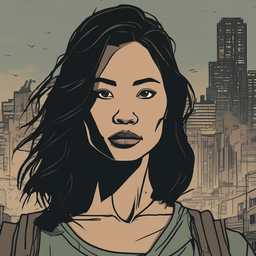
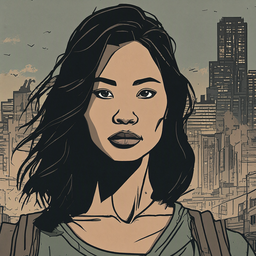
미국 애니메이션 화풍: 앳된 10대 여성 2장 추가, d_f28 뺨 고치기 (12-139)
- d_f31(17세)·d_f32(16세): d_f21·d_f29가 20대처럼 나와 더 앳된 묘사로 새로 추가 (후보 중 고른 시드)
- 얼굴 touchup: 마지막에 이 지시 하나만으로 Qwen 편집을 한 번 더 한다. 다른 지시와 섞으면 잘 따르지 않아 특정 부분 고치기는 따로 한다
- d_f28: 화면 왼쪽 뺨과 턱 사이를 덮은 검은 덩어리를 치웠다

diff --git a/scripts/portraits.ts b/scripts/portraits.ts
@@ -55,6 +55,8 @@ type Character = {
   grade?: Grade;
   /** 화풍의 colorize 지시로 색을 입힌다 (흑백·회색조로 그려진 그림) */
   colorize?: boolean;
+  /** 마지막에 이 지시 하나만으로 Qwen 편집을 한 번 더 한다 (특정 부분만 고칠 때. 다른 지시와 섞으면 잘 안 먹힌다) */
+  touchup?: string;
   /** 자르는 영역 배율 (기본 1). 고개를 돌려 얼굴 너비가 좁게 재지는 얼굴은 1보다 크게 (얼굴이 작아진다) */
   crop_scale?: number;
   /** 여백이 모자라지 않아도 정리(cleanup)를 한다: 원본에 액자·테두리가 그려진 그림. 글이면 정리 지시에 덧붙인다 */
@@ -416,7 +418,13 @@ async function finishWorkflow(rawName: string, size: { width: number; height: nu
       col_rgb: { class_type: "SplitImageWithAlpha", inputs: { image: ["col_decode", 0] } },
     });
     image = ["col_rgb", 0];
-  } else if (ch.colorize && !colorizeHere) console.error(`  ! ${prefix}: colorize는 화풍의 colorize 지시와 cleanup 모델이 있어야 합니다`);
+  }
+  if (ch.touchup && cleanup) {
+    // 특정 부분 고치기: 이 지시만으로 한 번 더 편집한다
+    Object.assign(wf, qwenEdit("tu", image, ch.touchup.trim()));
+    image = ["tu_rgb", 0];
+  }
+  if (ch.colorize && !colorizeHere) console.error(`  ! ${prefix}: colorize는 화풍의 colorize 지시와 cleanup 모델이 있어야 합니다`);
   const grade = ch.grade ?? style.grade;
   const gradeRef = grade ? join(artDir, grade.ref) : null;
   if (grade && gradeRef && existsSync(gradeRef)) {
@@ -597,4 +605,30 @@ function sortKeys(o: Record<string, string>) {
 function fail(msg: string): never {
   console.error(msg);
   process.exit(1);
+}
+
+/** Qwen Image 편집 노드들 (이름 앞에 prefix). 결과는 <prefix>_rgb */
+function qwenEdit(prefix: string, image: [string, number], prompt: string): Record<string, Node> {
+  const c = cleanup!;
+  const n = (k: string) => `${prefix}_${k}`;
+  return {
+    [n("unet")]: { class_type: "UNETLoader", inputs: { unet_name: c.unet, weight_dtype: "default" } },
+    [n("cache")]: { class_type: "QwenImage21Cache", inputs: { model: [n("unet"), 0], device: "auto", dtype: "default" } },
+    [n("clip")]: { class_type: "CLIPLoader", inputs: { clip_name: c.clip, type: "qwen_image", device: "default" } },
+    [n("vae")]: { class_type: "VAELoader", inputs: { vae_name: c.vae } },
+    [n("enc")]: {
+      class_type: "TextEncodeQwenImage21",
+      inputs: { clip: [n("clip"), 0], vae: [n("vae"), 0], prompt, negative_prompt: "", resolution: 1024, "images.image_1": image },
+    },
+    [n("guider")]: { class_type: "CFGGuider", inputs: { model: [n("cache"), 0], positive: [n("enc"), 0], negative: [n("enc"), 1], cfg: 1 } },
+    [n("noise")]: { class_type: "RandomNoise", inputs: { noise_seed: c.seed } },
+    [n("sampler")]: { class_type: "KSamplerSelect", inputs: { sampler_name: "euler" } },
+    [n("sigmas")]: { class_type: "ManualSigmas", inputs: { sigmas: "1.0, 0.978453, 0.95418, 0.926626, 0.89508, 0.845148, 0.704534, 0.414568, 0" } },
+    [n("sample")]: {
+      class_type: "SamplerCustomAdvanced",
+      inputs: { noise: [n("noise"), 0], guider: [n("guider"), 0], sampler: [n("sampler"), 0], sigmas: [n("sigmas"), 0], latent_image: [n("enc"), 2] },
+    },
+    [n("decode")]: { class_type: "VAEDecode", inputs: { samples: [n("sample"), 0], vae: [n("vae"), 0] } },
+    [n("rgb")]: { class_type: "SplitImageWithAlpha", inputs: { image: [n("decode"), 0] } },
+  };
 }

diff --git a/docs/design.md b/docs/design.md
@@ -227,7 +227,7 @@ storylet_tags: [grunt, squad_life]
     - 다 만들면 상태 화면은 시트로 바뀌고 "Claude 세션에서 첫 장면이 이어진다"를 잠깐 띄운다
     - 상태 서버의 `POST /api/creation`은 Claude 세션이 화면 고르기를 열었을 때만 받는다 (JSON만, 설정 창과 같은 까닭)
   - 초상화는 id만 세이브에 남는다. 월드 팩에 주인공 초상화 목록(`art/portraits.yaml`)이 있으면 그 그림(`art/portraits/<id>.png`, 상태 화면이 `/portraits/<팩>/<id>.png`로 내준다)을, 없으면 코드로 그린 실루엣 12종(`ui/Portrait.tsx`, 예전 세이브도)을 그린다
-  - **주인공 초상화** (12-139): NPC 얼굴은 만들지 않고 주인공 얼굴만 고른다. 사용자가 화풍을 고를 수 있게 화풍마다 섹션을 나눈다. post_apoc은 실사 회화(A, 남4·여4) → 미국 애니메이션(D, 남28·여30, 흑백으로 나온 그림은 색을 입혀 차분한 컬러로 맞춘다) → 현대 애니메이션(C, 남2·여6) → 일본 레트로 일러스트(B, 남3·여5) 순. 일반 플레이어는 A·D를, 애니메이션 취향은 B·C를 고를 것으로 본다. core는 `art/portraits.yaml`에서 화풍 이름(`styles.<id>.label`, 적힌 순서가 섹션 순서)과 얼굴의 화풍·성별(`faces.<id>.style·gender`)만 읽고, 나머지 칸은 그림 생성 도구(`pnpm portraits <팩>`, 로컬 ComfyUI)의 설정이다. 목록이 있는 월드는 목록 밖 id와 다른 성별의 얼굴을 받지 않는다
+  - **주인공 초상화** (12-139): NPC 얼굴은 만들지 않고 주인공 얼굴만 고른다. 사용자가 화풍을 고를 수 있게 화풍마다 섹션을 나눈다. post_apoc은 실사 회화(A, 남4·여4) → 미국 애니메이션(D, 남28·여32, 흑백으로 나온 그림은 색을 입혀 차분한 컬러로 맞춘다) → 현대 애니메이션(C, 남2·여6) → 일본 레트로 일러스트(B, 남3·여5) 순. 일반 플레이어는 A·D를, 애니메이션 취향은 B·C를 고를 것으로 본다. core는 `art/portraits.yaml`에서 화풍 이름(`styles.<id>.label`, 적힌 순서가 섹션 순서)과 얼굴의 화풍·성별(`faces.<id>.style·gender`)만 읽고, 나머지 칸은 그림 생성 도구(`pnpm portraits <팩>`, 로컬 ComfyUI)의 설정이다. 목록이 있는 월드는 목록 밖 id와 다른 성별의 얼굴을 받지 않는다
   - 그림 생성 (`scripts/portraits.ts`): 화풍마다 모델이 다르다(A·D는 SDXL Base, B·C는 Animagine XL 4.0). 모든 얼굴의 크기·위치를 맞추려고 상반신까지 넉넉히 그린 뒤 얼굴을 찾아(SAM 3.1) 같은 기준(`framing`)으로 자른다. 여백이 많이 모자라거나 원본에 액자·비네트가 있으면 Qwen Image 2.1 편집(`cleanup`)으로 장면을 이어 채우고 지운다. **Qwen Image 2.1은 Qwen RESEARCH LICENSE(비상업, 연구·평가용)라서 배포용 그림에 쓰려면 상업 라이선스를 받아야 한다.** 마음에 든 옛 그림은 `art/sources/`에 두고 `faces.<id>.source`로 그대로 쓴다
   - 캐릭터에 `gender`, `portrait`가 생겼다. NPC도 콘텐츠에 성별이 있다 (GM 상태의 인물 줄에 보인다)
 - NPC는 콘텐츠에서 한 사람씩 정한다
